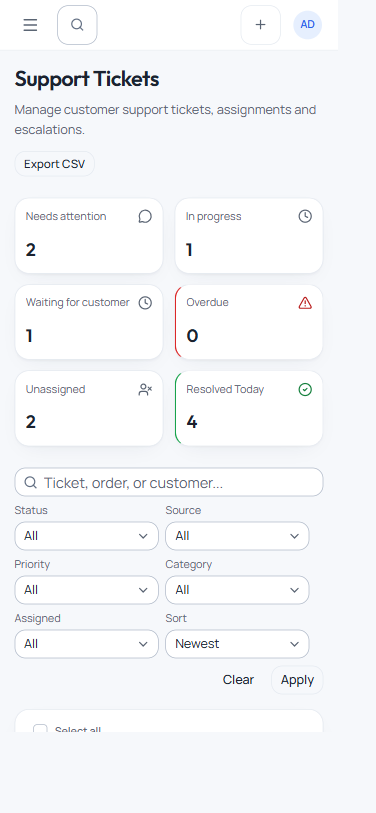
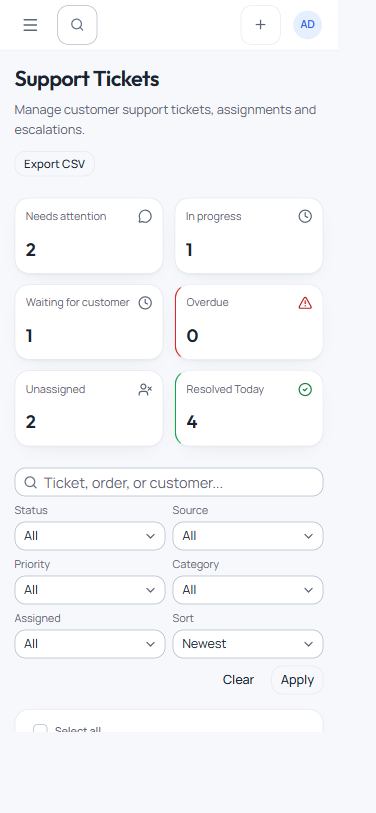
fix: keep ticket filters compact on narrow phones

diff --git a/apps/web-admin/client/src/pages/SupportPage.tsx b/apps/web-admin/client/src/pages/SupportPage.tsx
@@ -451,15 +451,15 @@ function SupportStatusFilter({ applyFilters, clearFilters, qDraft, setQDraft, fi
   draft: { status: string; origin: string; priority: string; category: string; assigned: string; sort: string; };
   setDraft: import("react").Dispatch<import("react").SetStateAction<{ status: string; origin: string; priority: string; category: string; assigned: string; sort: string; }>>;
 }) {
-  return (<FilterBar onApply={applyFilters} onClear={clearFilters} className="mb-4">
+  return (<FilterBar onApply={applyFilters} onClear={clearFilters} className="mb-4 grid grid-cols-2 sm:flex [&>div:last-child]:col-span-2">
     <SearchBar
       value={qDraft}
       onChange={setQDraft}
       placeholder="Ticket, order, or customer..."
-      className="w-full sm:w-64"
+      className="col-span-2 w-full sm:w-64"
     />
 
-    <SelectFilter id={`${fieldId}-status-1`} label="Status" value={draft.status || ALL_STATUSES} onValueChange={(v) => setDraft((d) => ({ ...d, status: v === ALL_STATUSES ? "" : v }))} triggerClassName="w-40" aria-label="Status filter" placeholder="All statuses">
+    <SelectFilter id={`${fieldId}-status-1`} label="Status" value={draft.status || ALL_STATUSES} onValueChange={(v) => setDraft((d) => ({ ...d, status: v === ALL_STATUSES ? "" : v }))} triggerClassName="w-full sm:w-40" aria-label="Status filter" placeholder="All statuses">
       <SelectItem value={ALL_STATUSES}>All</SelectItem>
       {STATUS_VALUES.map((s) => (
         <SelectItem key={s} value={s}>
@@ -468,10 +468,10 @@ function SupportStatusFilter({ applyFilters, clearFilters, qDraft, setQDraft, fi
       ))}
     </SelectFilter>
 
-    <SelectFilter id={`${fieldId}-source`} label="Source" value={draft.origin || "_all_"} onValueChange={(v) => setDraft((d) => ({ ...d, origin: v === "_all_" ? "" : v }))} triggerClassName="w-40" aria-label="Source filter" placeholder="All sources">
+    <SelectFilter id={`${fieldId}-source`} label="Source" value={draft.origin || "_all_"} onValueChange={(v) => setDraft((d) => ({ ...d, origin: v === "_all_" ? "" : v }))} triggerClassName="w-full sm:w-40" aria-label="Source filter" placeholder="All sources">
       <SelectItem value="_all_">All</SelectItem><SelectItem value="WEB">Website</SelectItem><SelectItem value="BOT">Telegram</SelectItem>
     </SelectFilter>
-    <SelectFilter id={`${fieldId}-priority-2`} label="Priority" value={draft.priority || ALL_PRIORITIES} onValueChange={(v) => setDraft((d) => ({ ...d, priority: v === ALL_PRIORITIES ? "" : v }))} triggerClassName="w-40" aria-label="Priority filter" placeholder="All priorities">
+    <SelectFilter id={`${fieldId}-priority-2`} label="Priority" value={draft.priority || ALL_PRIORITIES} onValueChange={(v) => setDraft((d) => ({ ...d, priority: v === ALL_PRIORITIES ? "" : v }))} triggerClassName="w-full sm:w-40" aria-label="Priority filter" placeholder="All priorities">
       <SelectItem value={ALL_PRIORITIES}>All</SelectItem>
       {PRIORITY_VALUES.map((p) => (
         <SelectItem key={p} value={p}>
@@ -486,7 +486,7 @@ function SupportStatusFilter({ applyFilters, clearFilters, qDraft, setQDraft, fi
         value={draft.category || ALL_CATEGORIES}
         onValueChange={(v) => setDraft((d) => ({ ...d, category: v === ALL_CATEGORIES ? "" : v }))}
       >
-        <SelectTrigger id={`${fieldId}-category-3`} className="w-40" aria-label="Category filter">
+        <SelectTrigger id={`${fieldId}-category-3`} className="w-full sm:w-40" aria-label="Category filter">
           <SelectValue placeholder="All categories" />
         </SelectTrigger>
         <SelectContent>
@@ -506,7 +506,7 @@ function SupportStatusFilter({ applyFilters, clearFilters, qDraft, setQDraft, fi
         value={draft.assigned || ALL_ASSIGNED}
         onValueChange={(v) => setDraft((d) => ({ ...d, assigned: v === ALL_ASSIGNED ? "" : v }))}
       >
-        <SelectTrigger id={`${fieldId}-assigned-4`} className="w-40" aria-label="Assigned filter">
+        <SelectTrigger id={`${fieldId}-assigned-4`} className="w-full sm:w-40" aria-label="Assigned filter">
           <SelectValue placeholder="All" />
         </SelectTrigger>
         <SelectContent>
@@ -520,7 +520,7 @@ function SupportStatusFilter({ applyFilters, clearFilters, qDraft, setQDraft, fi
     <div className="flex flex-col gap-1">
       <label htmlFor={`${fieldId}-sort-5`} className="text-xs text-ink-soft">Sort</label>
       <Select value={draft.sort} onValueChange={(v) => setDraft((d) => ({ ...d, sort: v }))}>
-        <SelectTrigger id={`${fieldId}-sort-5`} className="w-40" aria-label="Sort">
+        <SelectTrigger id={`${fieldId}-sort-5`} className="w-full sm:w-40" aria-label="Sort">
           <SelectValue />
         </SelectTrigger>
         <SelectContent>

diff --git a/docs/TICKETING_V2.md b/docs/TICKETING_V2.md
@@ -50,10 +50,10 @@ Migration/backfill belum dijalankan ke produksi. Verifikasi schema lokal hanya k
 
 ## 5. Hasil verifikasi
 
-- `pnpm -r build`: lulus untuk semua workspace; output `.ticketing-build-final-3.log`.
-- `pnpm typecheck`: lulus, termasuk semua workspace dan `tsconfig.test.json`; output `.ticketing-typecheck-final-3.log`. Final synchronized gate sedang dijalankan ulang di `.ticketing-final-typecheck.log` / `.ticketing-final-test.log`.
-- `pnpm lint`: lulus, termasuk Storefront ESLint dan `pnpm doctor:bugs` untuk kedua client; output `.ticketing-lint-final-3.log`.
-- `pnpm doctor:changed`: 37 files, Bugs clean. `pnpm doctor:full`: **637 files, 0 errors, 0 warnings**, 14.2 detik; diagnostics `react-doctor-8734ca1e-7204-471e-8102-f5eb8e81a5a8`. Tidak ada suppression, exclusion atau disabled rule baru.
+- `pnpm -r build`: lulus untuk semua workspace; output `.ticketing-build-complete-final.log`.
+- `pnpm typecheck`: lulus, termasuk semua workspace dan `tsconfig.test.json`; output `.ticketing-typecheck-compact-final.log`. Final synchronized gate sedang dijalankan ulang di `.ticketing-typecheck-compact-final.log` / `.ticketing-test-verified-final.log`.
+- `pnpm lint`: lulus, termasuk Storefront ESLint dan `pnpm doctor:bugs` untuk kedua client; output `.ticketing-lint-complete-final.log`.
+- `pnpm doctor:changed`: 38 files, Bugs clean. `pnpm doctor:full`: **637 files, 0 errors, 0 warnings**, 38.4 detik; diagnostics `react-doctor-19b65f01-13a6-45a1-8f0f-34a14d1e1f3d`. Tidak ada suppression, exclusion atau disabled rule baru.
 - Focused domain/backfill/delivery 152 tests lulus; lifecycle/retention-race/stream-limit 12 lulus; API/bot regressions 381 lulus. Final upload hooks + admin list/detail: **87 tests lulus**. Angka ini per-run, bukan total unik.
 - Full suite pertama: 632 files, 11,824 tests; 33 gagal. Ekspektasi label/nomor/placeholder lama diperbarui setelah failure direproduksi sendirian. Test order creation yang timeout lulus sendirian 7/7 tanpa perubahan logic atau timeout. Final full gate masih berjalan; jangan menganggap jumlah focused sebagai full pass.
 - Browser fixtures: CSS viewport **320/375/768/1024/1440/1920** untuk customer help/detail dan admin list/detail. Tidak ada horizontal overflow dokumen/main. Tabel admin scroll hanya dalam panel pada ukuran menengah. `Pembayaran & Saldo`/refund dengan deskripsi `Gg` invalid; pergantian kategori membersihkan draft order. Nomor/teks panjang membungkus; title editor mobile dapat disimpan; internal note admin terpisah. Screenshots: `docs/ticketing-help-mobile.png`, `ticketing-detail-mobile.png`, `ticketing-admin-mobile.png`, `ticketing-admin-desktop.png`, `ticketing-admin-detail-mobile.png`.
@@ -64,7 +64,7 @@ Ukuran chunk hasil production build lokal (minified / gzip; tidak termasuk share
 | --- | ---: | ---: |
 | Customer Help | 10.02 kB | 3.59 kB |
 | Customer Ticket Detail | 22.42 kB | 6.96 kB |
-| Admin Support | 19.79 kB | 6.38 kB |
+| Admin Support | 19.92 kB | 6.41 kB |
 | Admin Ticket Detail | 31.10 kB | 9.83 kB |
 
 ## 6. Konfigurasi operasional
@@ -95,8 +95,10 @@ Environment contoh ada di `.env.example`. `SUPPORT_IMAGE_MB` / `SUPPORT_VIDEO_MB
 - R2 account/token/CORS belum dikonfigurasi untuk pengujian live. Tidak ada live Telegram send/poller. Test transport memakai mock, sementara domain/API memakai PostgreSQL isolated. Smoke test layanan asli tetap wajib saat rollout.
 - Pemeriksaan file menggunakan signature gambar dan bounded MP4 ftyp, size, MIME dan pinned ETag. Ini bukan antivirus atau full media decoder. Bucket tetap private; tidak ada klaim malware-free. Integrasi scanner eksternal tidak ditambahkan.
 - Telegram API tidak menawarkan transaksi dengan database. Checkpoint mencegah pengulangan text/media yang telah tercatat saat retry; crash tepat sesudah transport menerima namun sebelum checkpoint dapat mengulang satu bagian. Salinan media Telegram tidak ikut terhapus saat retensi R2.
-- Baseline latency/RSS/volume produksi tidak tersedia. Ukuran build dicatat di atas; log integration mencatat durasi request lokal. Peak RSS upload live, jumlah file/ukuran volume produksi dan delta terhadap baseline belum diukur. Web upload hanya membawa metadata melalui Fastify; Telegram dibatasi dua stream per proses, timeout 90 detik, byte-count/backpressure, inspection 4 KiB.
+- Baseline latency/RSS/volume produksi tidak tersedia. Ukuran build dicatat di atas; log integration mencatat durasi request lokal. Peak RSS upload live, jumlah file/ukuran volume produksi dan delta terhadap baseline belum diukur. Web upload hanya membawa metadata melalui Fastify; Jalur ingest dan delivery Telegram masing-masing dibatasi dua stream per proses, timeout 90 detik, byte-count/backpressure, inspection 4 KiB.
 - QA browser memakai Chromium dengan response fixture. Real-service E2E upload/download R2, recipient Telegram, mobile keyboard fisik serta Safari/Firefox belum dilakukan; jangan mengklaim cross-browser atau production ready dari fixture ini.
 - Vite build masih memberikan warning existing untuk shared admin chunk di atas 500 kB. Ukuran chunk ticketing di atas terpisah; batas warning tidak dinaikkan/disembunyikan.
 - Permission R2 discovery lebih luas daripada object-only token. Jika operator memilih least privilege per-bucket, isi `SUPPORT_R2_BUCKET` secara eksplisit. Kredensial dan CORS tidak dapat muncul otomatis hanya dari pembuatan bucket.
 - Branch implementasi `worktree-ticketing-v2` belum diintegrasikan/dideploy. Folder utama memiliki `skills-lock.json` untracked milik pekerjaan yang belum dikonfirmasi; AGENTS.md mewajibkan integration checkout bersih sebelum merge. File tersebut tidak disentuh oleh task ini.
+
+Screenshot tambahan: `docs/ticketing-admin-320.png`. Filter admin tetap dua kolom pada 320 px; setiap trigger sekitar 131 px dan tidak menyebabkan overflow.

diff --git a/docs/REACT_DOCTOR_PHASE_1_REPORT.md b/docs/REACT_DOCTOR_PHASE_1_REPORT.md
@@ -224,9 +224,11 @@ Historical Phase 1 changed-file inventory, before integration with the newer mas
 ## Ticketing V2 - 13 Oktober 2026
 
 - Worktree `ticketing-v2`, branch `worktree-ticketing-v2`, synchronized with `master` / `origin/master` at `c39b0150` before the final gate.
-- Final source full Doctor (`pnpm doctor:full`): **637 files, 0 errors, 0 warnings**, 14.2 seconds. Output `.ticketing-doctor-final-5.log`, diagnostics `react-doctor-8734ca1e-7204-471e-8102-f5eb8e81a5a8`. No suppression, exclusion or disabled rule added.
-- `pnpm doctor:changed`: 37 files, Bugs category clean. `pnpm lint`: Storefront ESLint and both clients' full `doctor:bugs` scan clean (637 files). Outputs `.ticketing-doctor-changed-final-3.log`, `.ticketing-lint-final-3.log`.
+- Final source full Doctor (`pnpm doctor:full`): **637 files, 0 errors, 0 warnings**, 38.4 seconds. Output `.ticketing-doctor-compact-final.log`, diagnostics `react-doctor-19b65f01-13a6-45a1-8f0f-34a14d1e1f3d`. No suppression, exclusion or disabled rule added.
+- `pnpm doctor:changed`: 38 files, Bugs category clean. `pnpm lint`: Storefront ESLint and both clients' full `doctor:bugs` scan clean (637 files). Outputs `.ticketing-doctor-changed-complete-final.log`, `.ticketing-lint-complete-final.log`.
 - Object URL previews belong to mounted components with effect cleanup; URLs are revoked on file change/unmount. Active content never receives a preview. Synchronous upload capacity handles multiple events before React rerenders, and a failed/denied/unverified file never appears in submitted attachment IDs. Final upload hooks/admin list/detail focused run: **87/87**.
 - Browser runtime: customer help/detail and admin list/detail exercised with API fixtures at **CSS widths 320, 375, 768, 1024, 1440, 1920**. Document/main horizontal scroll stayed within client widths. Admin table scrolling is contained at 768/1024; mobile uses existing DataTable cards. Checked category switching clears order context, `Gg` refund description is invalid, long unbroken text wraps, title modal saves on mobile, and internal notes are distinct in admin.
 - Browser fixtures verify rendering/interaction, not production authentication, live R2 or live Telegram. Authorization/domain behavior has separate isolated Postgres integration tests. Screenshots: `docs/ticketing-{help-mobile,detail-mobile,admin-mobile,admin-desktop,admin-detail-mobile}.png`.
-- Workspace build and full typecheck passed on final source. The first full suite exposed outdated UI/number expectations and one order-creation timeout; each failing file was rerun alone. Expectations were updated to match V2 behavior without changing assertions of privacy/ownership; order creation passed alone 7/7 unchanged. Full synchronized verification is running; its result will be recorded here from `.ticketing-final-typecheck.log` and `.ticketing-final-test.log`.
+- Workspace build and full typecheck passed on final source. The first full suite exposed outdated UI/number expectations and one order-creation timeout; each failing file was rerun alone. Expectations were updated to match V2 behavior without changing assertions of privacy/ownership; order creation passed alone 7/7 unchanged. Full synchronized verification is running; its result will be recorded here from `.ticketing-typecheck-compact-final.log` and `.ticketing-test-verified-final.log`.
+
+- Final mobile filter QA: admin Status/Source controls share the same row at CSS width 320 (about 131 px each), with no document/main overflow across all six widths. Screenshot `docs/ticketing-admin-320.png`; 30/30 SupportPage tests passed.
